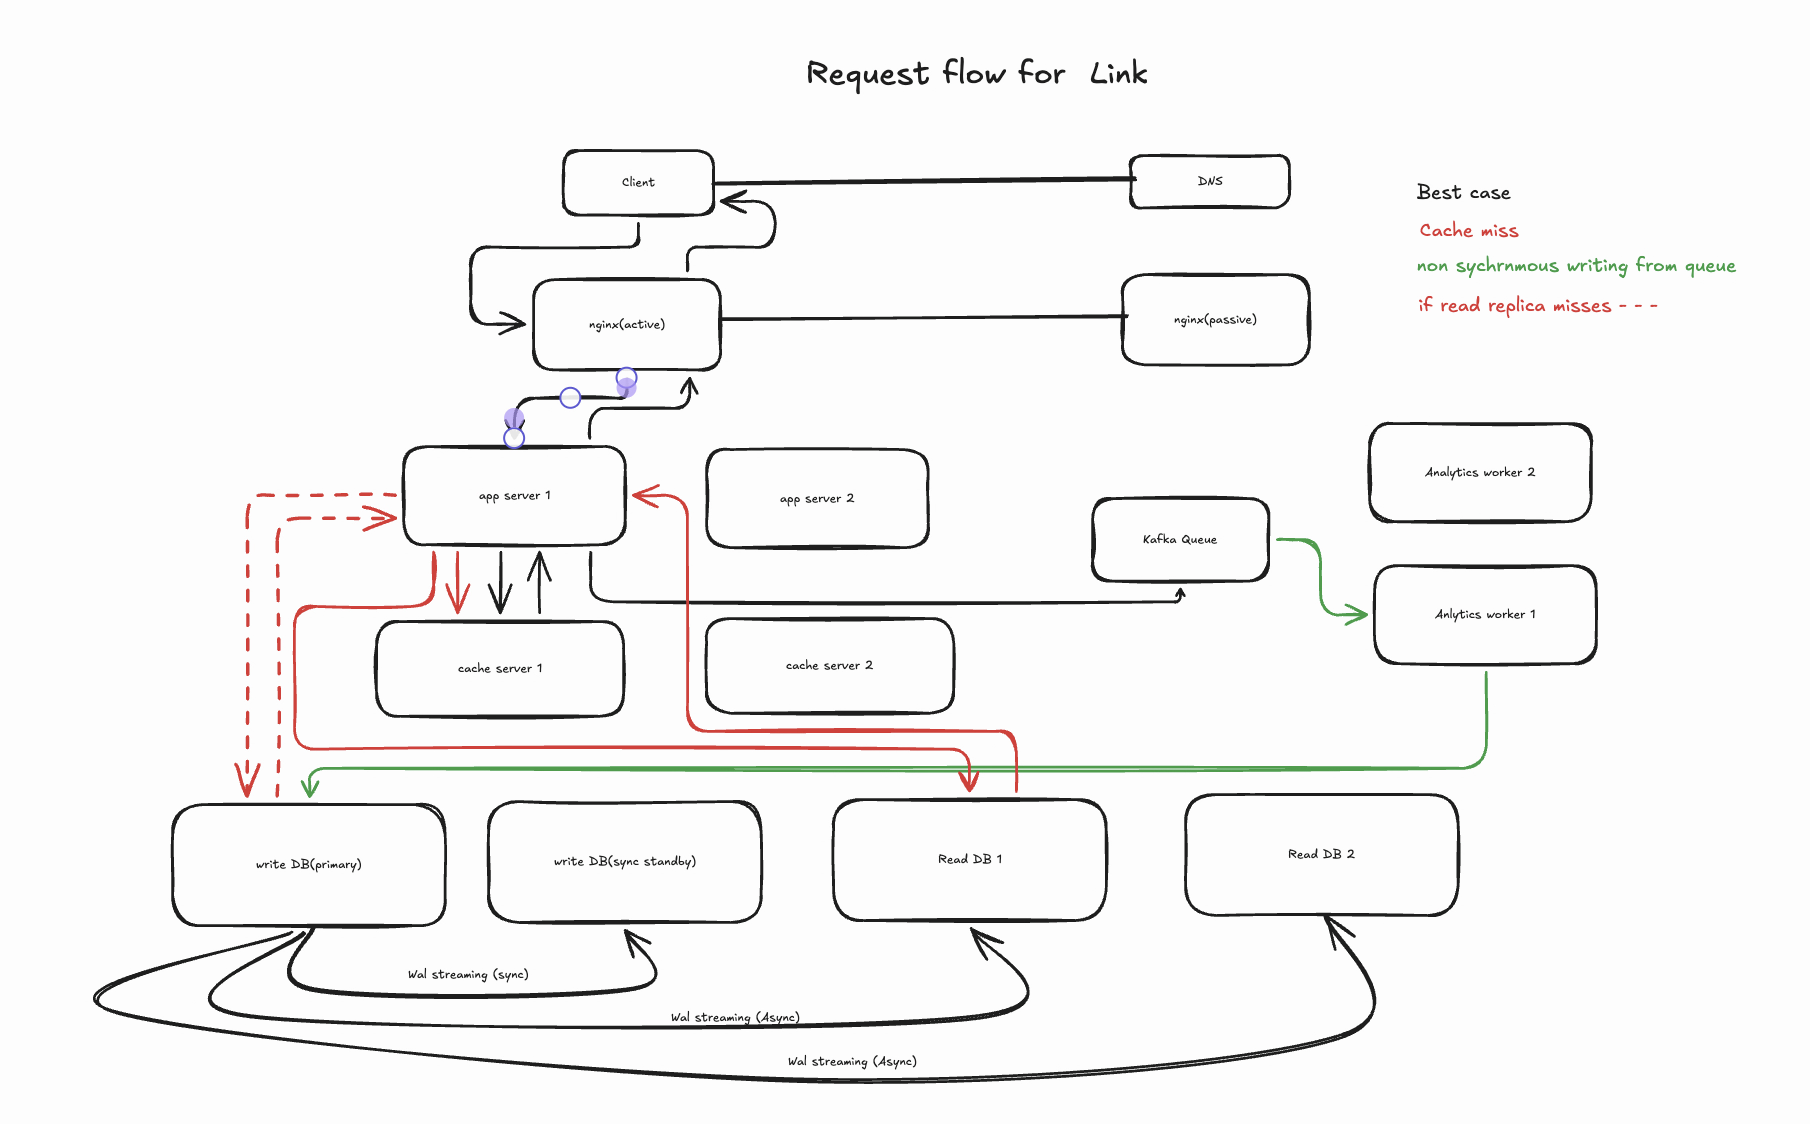
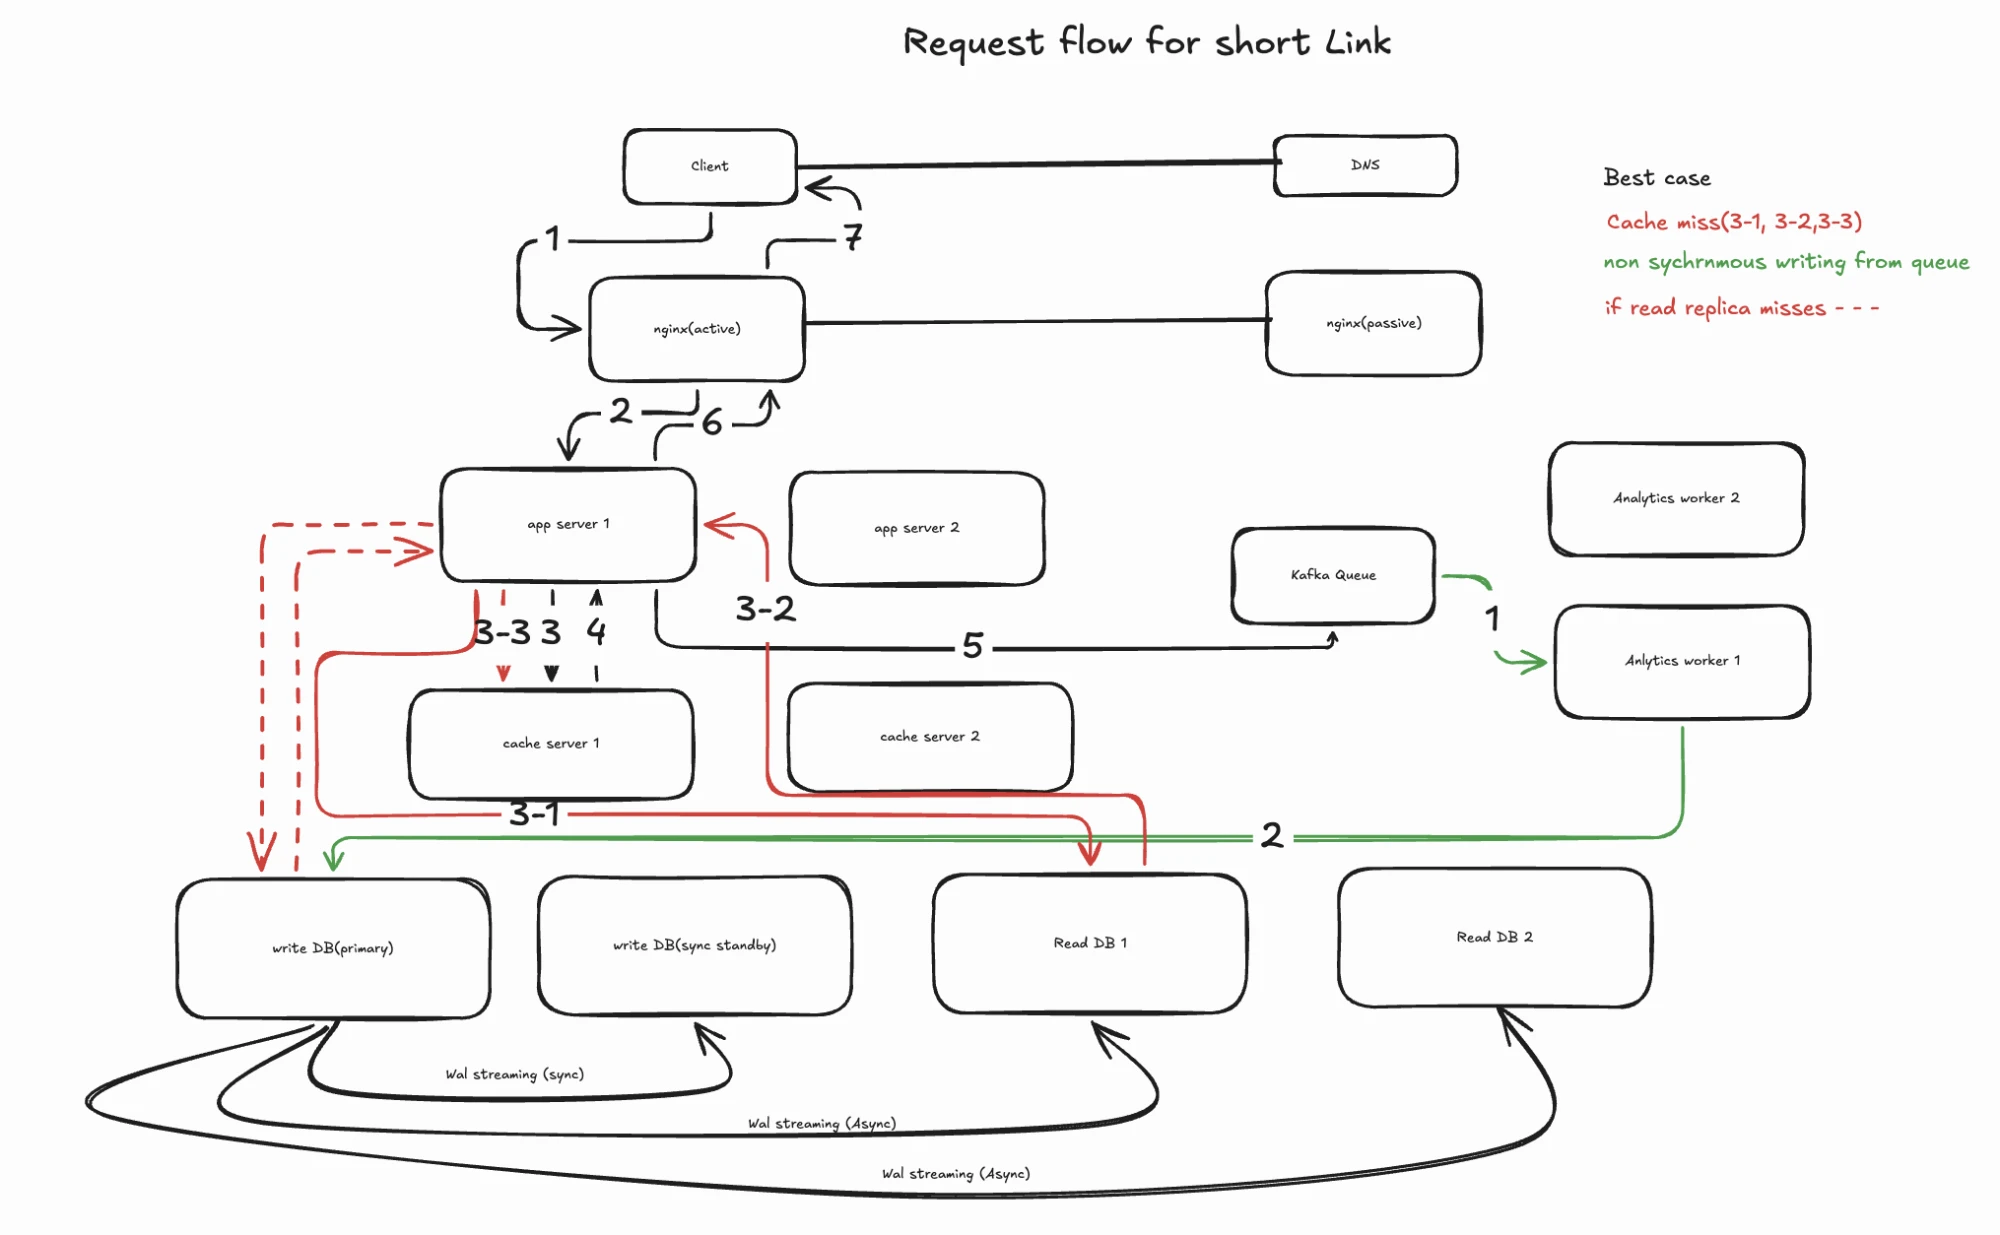
url-shortener phase 2: numbered read-flow diagram

diff --git a/01-url-shortener/phase-2.md b/01-url-shortener/phase-2.md
@@ -187,7 +187,7 @@ Interview line: "~110 GB of data over 5 years, provision ~300 GB per node — on
 ### Read flow (redirect)
 ![Phase 2 read flow](phase-2-read-flow.png)
 
-*9 Nov 2026.* Black = cache hit · red = cache miss → read replica → app fills cache · red dashed = replica miss → primary fallback · green = Kafka → analytics workers → batched upsert into primary · WAL: sync to standby, async to read replicas.
+*9 Nov 2026.* 1–2 client → LB → app · 3–4 cache hit · **miss:** 3-1 app → read replica · 3-2 row back · 3-3 app fills cache · dashed = replica miss → primary fallback · 5 fire-and-forget click event → Kafka · 6–7 `302` back · green 1–2 = Kafka → analytics worker → batched upsert into primary · WAL: sync to standby, async to replicas.
 ### Write flow (create a link)
 ![Phase 2 write flow](phase-2-write-flow.png)
 
